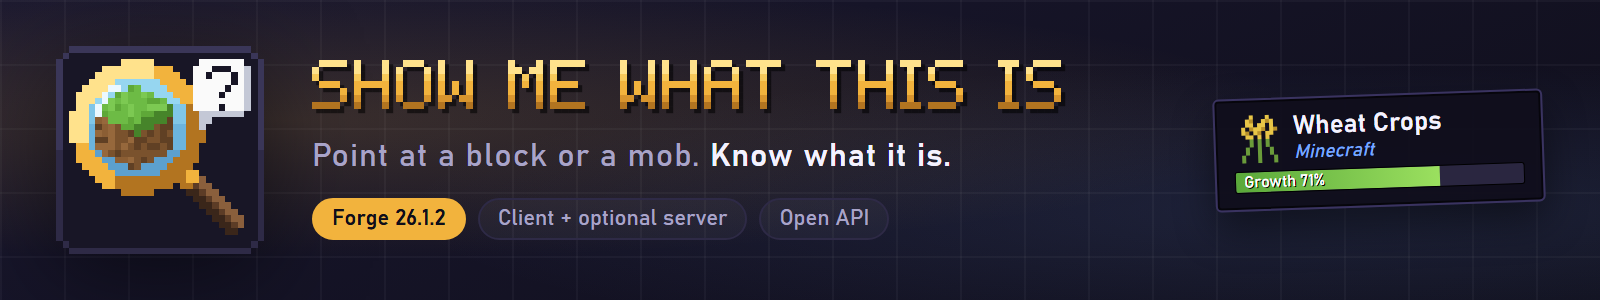
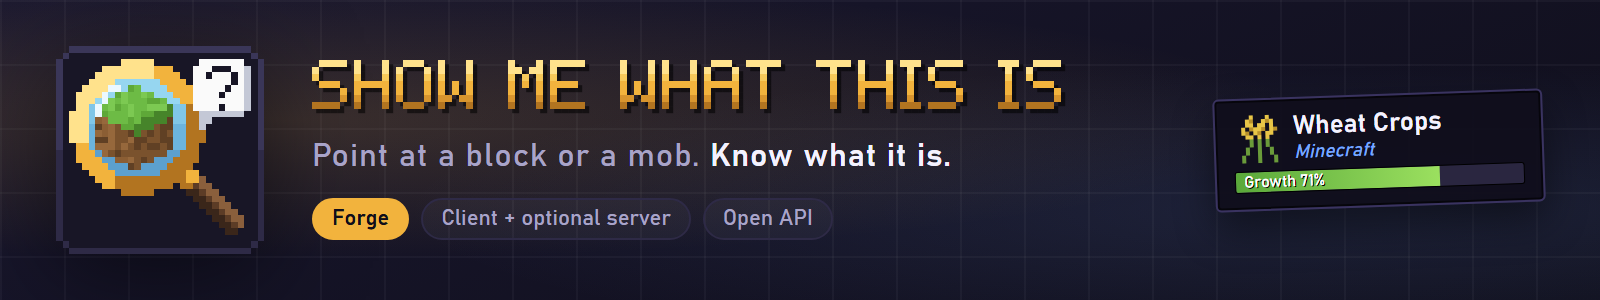
Branding copy without version numbers, new hotkeys and a one-line description
The listing copy and images no longer name a Minecraft or Forge version; the
FAQ points to the Files tab instead. The hotkeys are F10 and Ctrl+F10, and the
listing opens with a one-sentence description for summaries and posts.

Changed region(s): [[0.25, 0.66, 0.5625, 0.81], [0.4062, 0.78, 0.4688, 0.81]]

diff --git a/branding/source/banners.html b/branding/source/banners.html
@@ -268,7 +268,7 @@ const ASSETS = {
       half(pixelText("Show me what this is", 7)),
       el("div", {class: "tag", style: "font-size:16px"}, "Point at a block or a mob. ", el("b", {}, "Know what it is.")),
       el("div", {class: "meta", style: "gap:6px"},
-        el("span", {class: "pill on", style: "font-size:11px;padding:3px 9px"}, "Forge 26.1.2"),
+        el("span", {class: "pill on", style: "font-size:11px;padding:3px 9px"}, "Forge"),
         el("span", {class: "pill", style: "font-size:11px;padding:3px 9px"}, "Client + optional server"),
         el("span", {class: "pill", style: "font-size:11px;padding:3px 9px"}, "Open API"))));
     const p = PANELS.crop(); p.style.cssText += ";zoom:.5;transform:rotate(-2deg)"; r.append(p);
@@ -287,7 +287,7 @@ const ASSETS = {
     r.style.cssText += "display:flex;flex-direction:column;align-items:center;justify-content:center;gap:28px;text-align:center";
     r.append(iconImg(220));
     r.append(pixelText("Show me what this is", 7));
-    r.append(el("div", {class: "tag"}, "A look-at overlay for Minecraft Forge 26.1.2"));
+    r.append(el("div", {class: "tag"}, "Point at anything. Know what it is."));
   }],
   themes: [1920, 1080, (r) => {
     r.style.cssText += "display:flex;flex-direction:column";
@@ -317,7 +317,7 @@ const ASSETS = {
     const grid = el("div", {style: "zoom:1.18;display:grid;grid-template-columns:repeat(3,auto);gap:50px 70px;justify-content:center;align-items:start"});
     for (const [k, t, d] of items) grid.append(el("div", {}, PANELS[k](), el("div", {class: "cap"}, el("b", {}, t), d)));
     grid.append(el("div", {style: "align-self:center"}, el("div", {class: "meta", style: "flex-direction:column;align-items:flex-start"},
-      el("span", {class: "pill on"}, "Forge 26.1.2"), el("span", {class: "pill"}, "Five themes, Modern by default"),
+      el("span", {class: "pill on"}, "Forge"), el("span", {class: "pill"}, "Five themes, Modern by default"),
       el("span", {class: "pill"}, "Resource pack rules"), el("span", {class: "pill"}, "MIT license"))));
     r.append(grid);
   }],

diff --git a/branding/LISTING.md b/branding/LISTING.md
@@ -13,21 +13,27 @@ Everything you need to fill in the two project forms. Files are in `branding/ico
 | Main category | Map and Information | Utility |
 | More categories | Utility & QoL, API and Library | (none needed) |
 | Loader | Forge | Forge |
-| Game version | 26.1.2 | 26.1.2 |
+| Game versions | Set on each uploaded file | Set on each uploaded file |
 | Environment | Client, server optional | Client: required, Server: optional |
 | License | MIT | MIT |
 | Source | https://github.com/ItMeCasey/SMWTI | same |
 | Issues | https://github.com/ItMeCasey/SMWTI/issues | same |
 
+### One-line description
+
+> Point at anything in your world and SMWTI tells you what it is, where it came from and what it's up to, from crop growth to chest contents.
+
+Use it anywhere a single sentence fits: the CurseForge summary, social posts, the top of the description.
+
 ### Summary
 
 Modrinth (256 characters max):
 
-> A look-at overlay for Forge 26.1.2. Point at a block or a mob to see its name, its mod and its state: crop growth, health, chest contents, machine progress. Other mods add their own lines through a small API.
+> A look-at overlay for Forge. Point at a block or a mob to see its name, its mod and its state: crop growth, health, chest contents, machine progress. Other mods add their own lines through a small API.
 
 CurseForge (keep it short; it shows on cards):
 
-> Point at a block or a mob and see what it is, which mod it's from and what state it's in.
+> Point at anything in your world and SMWTI tells you what it is, where it came from and what it's up to, from crop growth to chest contents.
 
 ### Gallery
 
@@ -53,9 +59,11 @@ The descriptions below load images from the GitHub repository, so they only show
 ```markdown
 ![Show Me What This Is](https://raw.githubusercontent.com/ItMeCasey/SMWTI/main/branding/banners/banner.png)
 
-**Show Me What This Is** (SMWTI) is a look-at overlay for Minecraft Forge 26.1.2. Point at a block or an entity and a small panel at the top of the screen tells you what it is, which mod it comes from and, where it can, what state it is in.
+**Point at anything in your world and SMWTI tells you what it is, where it came from and what it's up to, from crop growth to chest contents.**
 
-It is inspired by Jade and The One Probe, which have no Forge build for this Minecraft version. SMWTI shares no code with them.
+Show Me What This Is (SMWTI) is a look-at overlay for Minecraft Forge. Point at a block or an entity and a small panel tells you what it is, which mod it comes from and, where it can, what state it is in.
+
+It is inspired by Jade and The One Probe and shares no code with them.
 
 ![Features](https://raw.githubusercontent.com/ItMeCasey/SMWTI/main/branding/banners/h_features.png)
 
@@ -69,8 +77,8 @@ It is inspired by Jade and The One Probe, which have no Forge build for this Min
 ![For players](https://raw.githubusercontent.com/ItMeCasey/SMWTI/main/branding/banners/h_players.png)
 
 - Install it on the client. It works on any server; a server that also has SMWTI sends extra live data (chest contents, tank levels, machine progress).
-- **Numpad 0** opens the settings, **Numpad 1** turns the overlay on and off. Both can be rebound in Controls.
-- Drag the overlay anywhere on the screen from the settings (**Move overlay...**). The spot is kept when the window size changes.
+- **F10** turns the overlay on and off, **Ctrl+F10** opens the settings. Both can be rebound in Controls.
+- Drag the overlay anywhere on the screen from the settings (**Move overlay...**). It snaps to centers and corners and stays clear of the hotbar.
 - Resource packs can hide, rename or add lines to any block or entity with a small JSON file.
 
 ![Themes](https://raw.githubusercontent.com/ItMeCasey/SMWTI/main/branding/banners/h_themes.png)
@@ -89,7 +97,7 @@ Add your own lines through `SmwtiApi`: client and server providers for blocks an
 
 **Does it load Jade or The One Probe plugins?** No. Mods add support through SMWTI's own API.
 
-**Other loaders or versions?** Forge 26.1.2 only for now.
+**Other loaders?** Forge only for now. The Files tab lists the Minecraft versions each release supports.
 
 **License:** MIT. Source and issues on [GitHub](https://github.com/ItMeCasey/SMWTI).
 ```
